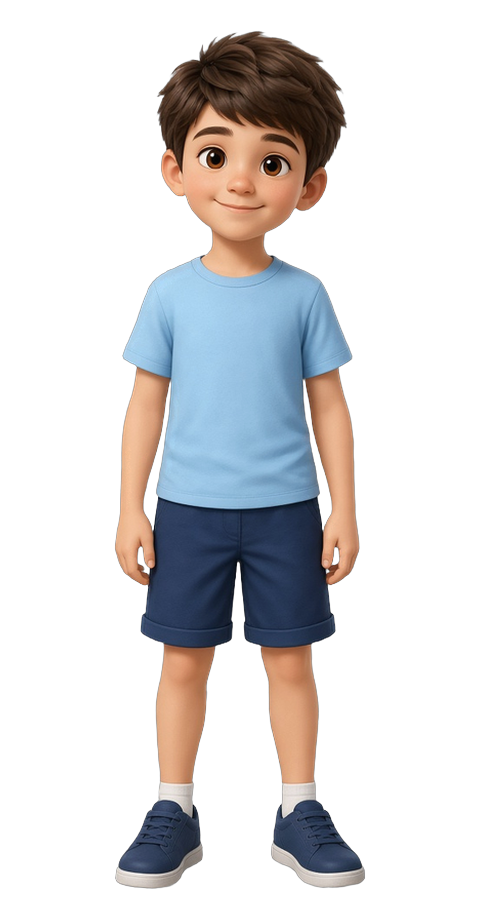
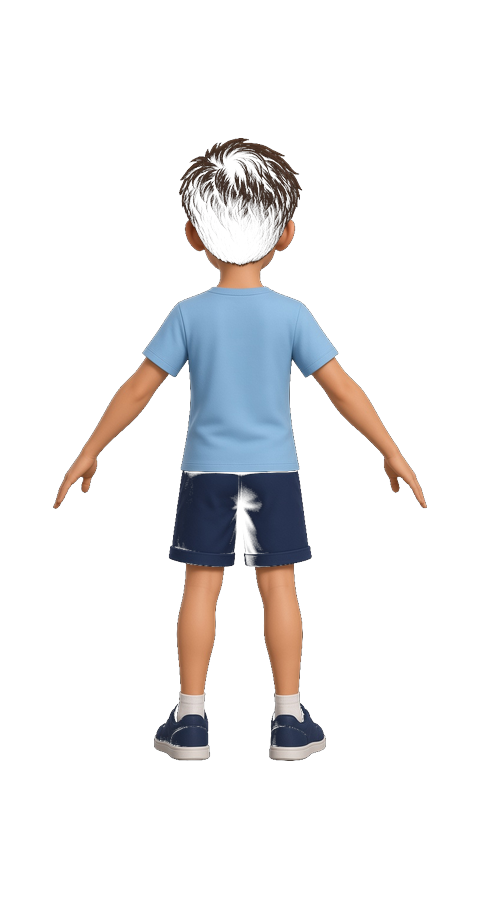
Add real 180° back-view bases for girl/boy/teen
Replace near-invisible mirror flips with dedicated rear
persona PNGs so expand-modal 180° clearly shows the back.

Changed region(s): [[0.0938, 0.0311, 0.9062, 0.9956]]

diff --git a/smart-fashion-finder/src/components/GameFashionAvatar.tsx b/smart-fashion-finder/src/components/GameFashionAvatar.tsx
@@ -14,7 +14,7 @@ import {
 import {
   catalogIdFromPieceId,
   nearestTurnYaw,
-  personaHasTurnFrames,
+  personaHasPaintedTurn,
   resolveOutfitLook,
   turnBaseForPersona,
 } from '@/constants/avatarAssets';
@@ -84,7 +84,7 @@ export function GameFashionAvatar({
 }: Props) {
   const female = isFemalePersona(profile.persona);
   const wScale = buildWidthScale(profile.build);
-  const hasTurnFrames = personaHasTurnFrames(profile.persona);
+  const paintedTurn = personaHasPaintedTurn(profile.persona);
   const controlled = typeof controlledYaw === 'number';
 
   const [internalYaw, setInternalYaw] = useState(0);
@@ -162,11 +162,11 @@ export function GameFashionAvatar({
   const bodyScaleX = Math.min(1.18, Math.max(0.82, wScale));
   const facingBack = yaw > 90;
   const frame = nearestTurnYaw(yaw);
-  // ילדים/נערים: בסיס PNG מורחב (מראה) — בלי תלות ב־CSS transform של הורה
-  const mirrorPersona = facingBack && !hasTurnFrames;
+  // ילדים/נערים: בסיס 180° ייעודי; שכבות בגד בהיפוך קל כשאין לוק מצויר מלא
+  const mirrorOverlays = facingBack && !paintedTurn;
   const baseSrc = turnBaseForPersona(profile.persona, yaw);
   const viewLabel = facingBack ? he.backViewHint : '';
-  const overlayFlip = mirrorPersona ? -1 : 1;
+  const overlayFlip = mirrorOverlays ? -1 : 1;
 
   return (
     <View
@@ -196,7 +196,7 @@ export function GameFashionAvatar({
         }}
       >
         <Image
-          key={`base-${profile.persona}-${frame}-${mirrorPersona ? 'm' : 'f'}`}
+          key={`base-${profile.persona}-${frame}-${facingBack ? 'back' : 'front'}`}
           source={baseSrc}
           resizeMode="contain"
           style={{ position: 'absolute', width, height }}
@@ -206,7 +206,7 @@ export function GameFashionAvatar({
               const garmentScale = ov.scale * ov.bodyScale;
               return (
                 <Image
-                  key={`ov-${ov.key}-${i}-${frame}-${mirrorPersona ? 'm' : 'f'}`}
+                  key={`ov-${ov.key}-${i}-${frame}-${facingBack ? 'back' : 'front'}`}
                   source={ov.src}
                   resizeMode="contain"
                   style={{

diff --git a/smart-fashion-finder/src/constants/avatarAssets.ts b/smart-fashion-finder/src/constants/avatarAssets.ts
@@ -251,8 +251,21 @@ export function nearestTurnYaw(yaw: number): TurnYaw {
   return best;
 }
 
-/** האם לדמות יש פריימי סיבוב ייעודיים */
+/** האם לדמות יש פריימי סיבוב ייעודיים (קדמי/אחורי) */
 export function personaHasTurnFrames(persona: AvatarPersona): boolean {
+  // כולם: גבר/אישה מצוירים; ילדה/ילד/נער — בסיס 180° ייעודי
+  return (
+    persona === 'man' ||
+    persona === 'woman' ||
+    persona === 'girl' ||
+    persona === 'boy' ||
+    persona === 'teenGirl' ||
+    persona === 'teenBoy'
+  );
+}
+
+/** פריימי גב מצוירים אמיתיים (לא רק בסיס 180) — בלי היפוך שכבות בגד */
+export function personaHasPaintedTurn(persona: AvatarPersona): boolean {
   return persona === 'man' || persona === 'woman';
 }
 
